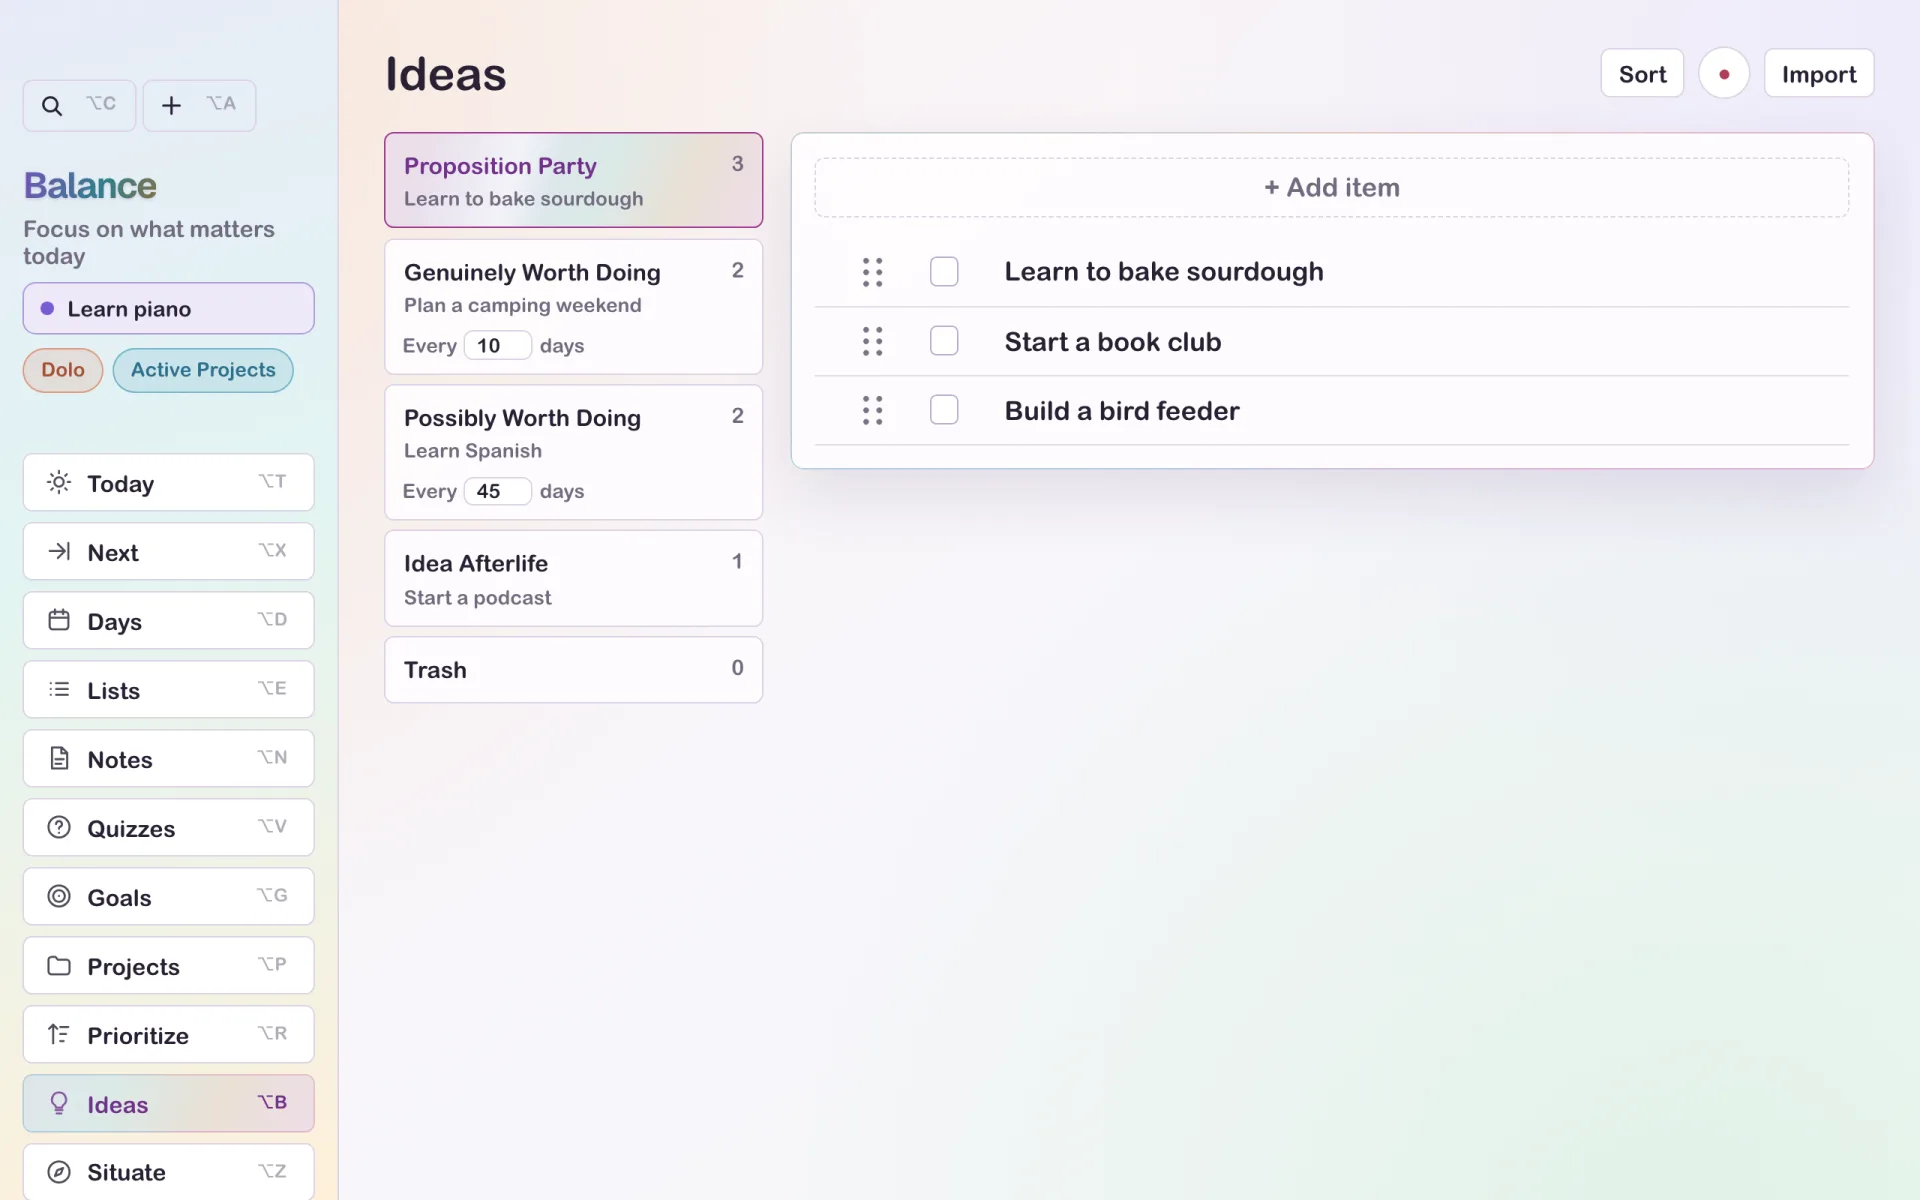
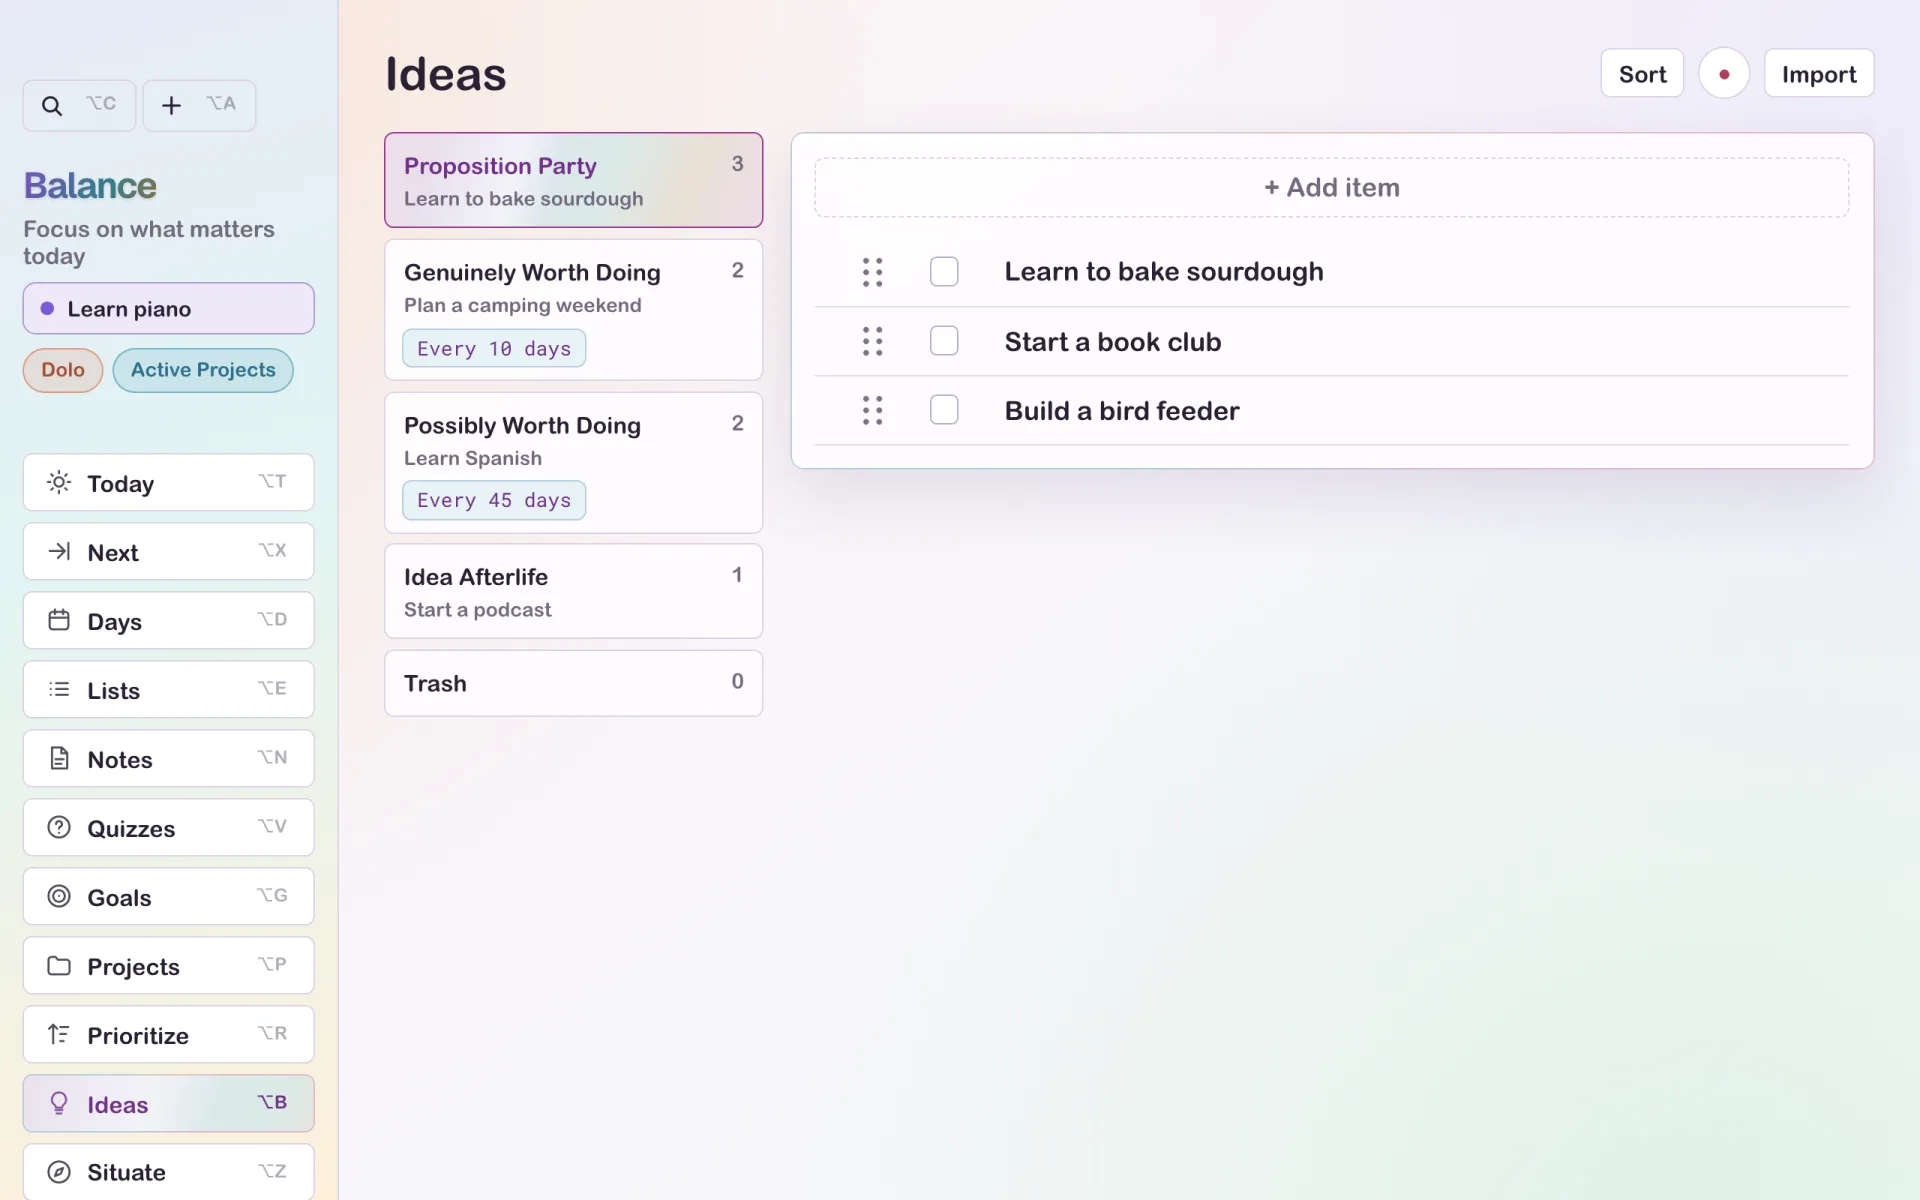
Drag idea review cadences like Today's times
The Every N days field becomes a drag-up/down value pill matching
Today's time labels, with arrow keys (Shift for a week). The pill keeps
its own themed surface, so it stays readable on XP's blue selection, and
a press without dragging selects its group.

Changed region(s): [[0.1875, 0.2467, 0.375, 0.5858]]

diff --git a/src/lib/IdeaReviewCadence.svelte b/src/lib/IdeaReviewCadence.svelte
@@ -1,60 +1,92 @@
 <script lang="ts">
-  import { ideaReviewDays, IDEA_REVIEW_MAX_DAYS, parseIdeaReviewDays, type ScheduledIdeaReviewKind } from './ideas'
+  import { onDestroy } from 'svelte'
+  import { beginHapticDrag, endHapticDrag, vibrateSteps } from './haptics'
+  import { ideaReviewDays, IDEA_REVIEW_MAX_DAYS, type ScheduledIdeaReviewKind } from './ideas'
   import { plannerStore } from './store'
   import type { IdeaGroup } from './types'
 
   export let kind: ScheduledIdeaReviewKind
   export let groups: IdeaGroup[]
   export let label: string
+  // A press that never drags counts as a press on whatever holds the value.
+  export let onTap: (() => void) | undefined = undefined
+
+  // Dragged like Today's times: one day per step of the pointer.
+  const PX_PER_DAY = 8
+  let preview: number | null = null
+  let drag: { originY: number; origin: number; steps: number; moved: boolean } | null = null
 
   $: days = ideaReviewDays(groups, kind)
+  $: shown = preview ?? days
+  $: text = `Every ${shown} ${shown === 1 ? 'day' : 'days'}`
 
-  // Invalid entries snap back to the saved cadence.
-  function commit(input: HTMLInputElement) {
-    const next = parseIdeaReviewDays(input.value)
-    if (next !== null && next !== days) plannerStore.setIdeaReviewDays(kind, next)
-    else input.value = String(days)
+  function clamp(value: number) {
+    return Math.min(IDEA_REVIEW_MAX_DAYS, Math.max(1, value))
   }
 
-  function handleKeydown(event: KeyboardEvent & { currentTarget: HTMLInputElement }) {
-    if (event.key !== 'Enter' && event.key !== 'Escape') return
+  function save(next: number) {
+    if (next !== days) plannerStore.setIdeaReviewDays(kind, next)
+  }
+
+  function begin(event: PointerEvent) {
     event.preventDefault()
-    if (event.key === 'Escape') event.currentTarget.value = String(days)
-    event.currentTarget.blur()
+    ;(event.currentTarget as HTMLElement).setPointerCapture(event.pointerId)
+    drag = { originY: event.clientY, origin: days, steps: 0, moved: false }
+    beginHapticDrag()
   }
+
+  function move(event: PointerEvent) {
+    if (!drag) return
+    const steps = Math.round((drag.originY - event.clientY) / PX_PER_DAY)
+    if (steps !== drag.steps) {
+      vibrateSteps(Math.abs(steps - drag.steps))
+      drag.steps = steps
+      drag.moved = true
+    }
+    preview = clamp(drag.origin + steps)
+  }
+
+  function end(event?: PointerEvent) {
+    if (!drag) return
+    const tapped = event?.type === 'pointerup' && !drag.moved
+    drag = null
+    endHapticDrag()
+    if (preview !== null) save(preview)
+    preview = null
+    if (tapped) onTap?.()
+  }
+
+  function key(event: KeyboardEvent) {
+    const delta = event.key === 'ArrowUp' ? 1 : event.key === 'ArrowDown' ? -1 : 0
+    if (!delta) return
+    event.preventDefault()
+    event.stopPropagation()
+    save(clamp(days + delta * (event.shiftKey ? 7 : 1)))
+  }
+
+  onDestroy(() => end())
 </script>
 
-<label class="idea-review-cadence" title="Scheduled review">
-  Every
-  <input
-    type="number"
-    inputmode="numeric"
-    min="1"
-    max={IDEA_REVIEW_MAX_DAYS}
-    step="1"
-    value={days}
+<span class="time-range idea-review-cadence">
+  <button
+    class="time-part"
+    type="button"
+    role="spinbutton"
     aria-label={`${label} review days`}
-    on:change={(event) => commit(event.currentTarget)}
-    on:keydown={handleKeydown}
-  />
-  days
-</label>
+    aria-valuenow={shown}
+    aria-valuemin={1}
+    aria-valuemax={IDEA_REVIEW_MAX_DAYS}
+    aria-valuetext={text}
+    title="Drag up or down, or use the arrow keys"
+    on:pointerdown={begin}
+    on:pointermove={move}
+    on:pointerup={end}
+    on:pointercancel={() => end()}
+    on:keydown={key}
+  >{text}</button>
+</span>
 
 <style>
-  .idea-review-cadence {
-    display: inline-flex;
-    align-items: center;
-    gap: 4px;
-    color: var(--muted);
-    font-size: 12px;
-    white-space: nowrap;
-  }
-  .idea-review-cadence input {
-    width: 3.5em;
-    min-height: 0;
-    padding: 1px 4px;
-    font-size: 12px;
-    text-align: right;
-    font-variant-numeric: tabular-nums;
-  }
+  .idea-review-cadence { font-size: 12px; }
+  .idea-review-cadence .time-part { padding: 3px 8px; white-space: nowrap; }
 </style>

diff --git a/tests/visual/ideas.spec.ts b/tests/visual/ideas.spec.ts
@@ -719,20 +719,28 @@ test('each scheduled group sets its review cadence from its card', async ({ page
   await openView(page, 'Ideas')
   await expect(page.getByRole('spinbutton', { name: /review days/ })).toHaveCount(mobile ? 0 : 2)
   if (mobile) await card(page, 'genuine').click()
-  else await expect(page.getByRole('spinbutton', { name: 'Possibly Worth Doing review days' })).toHaveValue('45')
+  else await expect(page.getByRole('spinbutton', { name: 'Possibly Worth Doing review days' })).toHaveAttribute('aria-valuenow', '45')
   const genuine = page.getByRole('spinbutton', { name: 'Genuinely Worth Doing review days' })
-  await expect(genuine).toHaveValue('10')
-  // Typing digits stays in the field instead of moving ideas.
-  await genuine.fill('3')
-  await genuine.press('Enter')
-  await expect(genuine).not.toBeFocused()
-  await genuine.fill('0')
-  await genuine.press('Tab')
-  await expect(genuine).toHaveValue('3')
+  await expect(genuine).toHaveAttribute('aria-valuenow', '10')
+  await expect(genuine).toHaveText('Every 10 days')
+  // Dragging up raises the cadence, dragging down lowers it, one day per step.
+  const box = (await genuine.boundingBox())!
+  await page.mouse.move(box.x + box.width / 2, box.y + box.height / 2)
+  await page.mouse.down()
+  await page.mouse.move(box.x + box.width / 2, box.y + box.height / 2 + 56, { steps: 4 })
+  await expect(genuine).toHaveText('Every 3 days')
+  await page.mouse.up()
+  await expect(genuine).toHaveAttribute('aria-valuenow', '3')
+  // Arrow keys step it too.
+  await genuine.focus()
+  await page.keyboard.press('ArrowUp')
+  await expect(genuine).toHaveAttribute('aria-valuenow', '4')
+  await page.keyboard.press('ArrowDown')
+  await expect(genuine).toHaveAttribute('aria-valuenow', '3')
   await page.reload()
   await expect(page.getByRole('region', { name: 'Daily plan' })).toBeVisible()
   await openView(page, 'Ideas')
-  await expect(genuine).toHaveValue('3')
+  await expect(genuine).toHaveAttribute('aria-valuenow', '3')
 
   await page.clock.setSystemTime(new Date(NOW.getTime() + 3 * 24 * 60 * 60 * 1000))
   await page.reload()

diff --git a/website/public/docs/index.html b/website/public/docs/index.html
@@ -198,7 +198,7 @@
       <h2 id="ideas">Ideas</h2>
       <p>Capture ideas with <kbd>Alt</kbd>+<kbd>A</kbd>. They land in <strong>Proposition Party</strong>.</p>
       <p><strong>Sort</strong> asks one question per idea: worth the time and attention? Yes offers <strong>Genuinely Worth Doing</strong>, <strong>Possibly Worth Doing</strong>, <strong>Add to new note</strong> (N), which moves the idea and its nested items into a new note, or <strong>Cut</strong> (X), which puts it on the clipboard to paste anywhere. While a day is being generated, <strong>Add to day</strong> (D) puts it at the top of that day. <strong>Back</strong> (B) undoes the previous card. Others go to <strong>Idea Afterlife</strong> or <strong>Trash</strong>, which empties after 30 days.</p>
-      <p>Every 10 days for <strong>Genuinely Worth Doing</strong> and every 45 for <strong>Possibly Worth Doing</strong>, generating a day first sorts every idea in that group again with the same choices. Change either cadence on its card.</p>
+      <p>Every 10 days for <strong>Genuinely Worth Doing</strong> and every 45 for <strong>Possibly Worth Doing</strong>, generating a day first sorts every idea in that group again with the same choices. Drag either cadence up or down on its card.</p>
       <figure>
         <div class="mac"><div class="bar"><i></i><i></i><i></i></div><picture><source srcset="/images/mac-ideas-dark.webp" media="(prefers-color-scheme: dark)"><img src="/images/mac-ideas.webp" width="1920" height="1200" alt="Ideas" loading="lazy"></picture></div>
       </figure>

diff --git a/src/lib/IdeasPanel.svelte b/src/lib/IdeasPanel.svelte
@@ -317,7 +317,7 @@
         <!-- A sibling, since inputs can't sit inside the card button; it
              occupies the card's reserved bottom padding. -->
         {#if scheduled}
-          <div class="idea-group-card-cadence"><IdeaReviewCadence kind={scheduled} {groups} label={meta.label} /></div>
+          <div class="idea-group-card-cadence"><IdeaReviewCadence kind={scheduled} {groups} label={meta.label} onTap={() => onSelectGroup(meta.kind)} /></div>
         {/if}
         </div>
       {/each}
@@ -445,11 +445,12 @@
     text-align: left;
   }
   .idea-group-slot { position: relative; }
-  .idea-group-card.scheduled { padding-bottom: 34px; }
+  /* Reserves room for the cadence below the card's text, clear of its middle. */
+  .idea-group-card.scheduled { padding-bottom: 38px; }
   .idea-group-card-cadence {
     position: absolute;
     left: 11px;
-    bottom: 9px;
+    bottom: 8px;
   }
   .idea-group-card:not(.active) {
     border-color: var(--line);

diff --git a/tests/unit/ideas.spec.ts b/tests/unit/ideas.spec.ts
@@ -85,8 +85,7 @@ test('a group cadence replaces its default; invalid cadences fall back', () => {
   expect(due([{ id: 'g', kind: 'genuine', items: genuine, reviewDays: 3 }], '2026-10-03')).toEqual([])
   expect(due([{ id: 'g', kind: 'genuine', items: genuine, reviewDays: 0 }], '2026-10-10')).toEqual([])
   expect(due([{ id: 'g', kind: 'genuine', items: genuine, reviewDays: 0 }], '2026-10-11')).toEqual([['genuine', ['Synthetic old']]])
-  expect([parseIdeaReviewDays('14'), parseIdeaReviewDays(' 7 '), parseIdeaReviewDays('0'), parseIdeaReviewDays('2.5'), parseIdeaReviewDays('366'), parseIdeaReviewDays('')])
-    .toEqual([14, 7, null, null, null, null])
+  expect([14, 365, 0, 2.5, 366, '7', null].map(parseIdeaReviewDays)).toEqual([14, 365, null, null, null, null, null])
 })
 
 test('undated ideas are due for review at once and empty groups never are', () => {

diff --git a/src/lib/ideas.ts b/src/lib/ideas.ts
@@ -107,8 +107,7 @@ export function scheduledIdeaReviewDefault(kind: IdeaGroupKind): number | null {
 
 // Whole days from 1 to a year, or null for anything else.
 export function parseIdeaReviewDays(value: unknown): number | null {
-  const days = typeof value === 'number' ? value : Number(String(value).trim())
-  return Number.isInteger(days) && days >= 1 && days <= IDEA_REVIEW_MAX_DAYS ? days : null
+  return typeof value === 'number' && Number.isInteger(value) && value >= 1 && value <= IDEA_REVIEW_MAX_DAYS ? value : null
 }
 
 export function ideaReviewDays(groups: IdeaGroup[], kind: ScheduledIdeaReviewKind): number {
